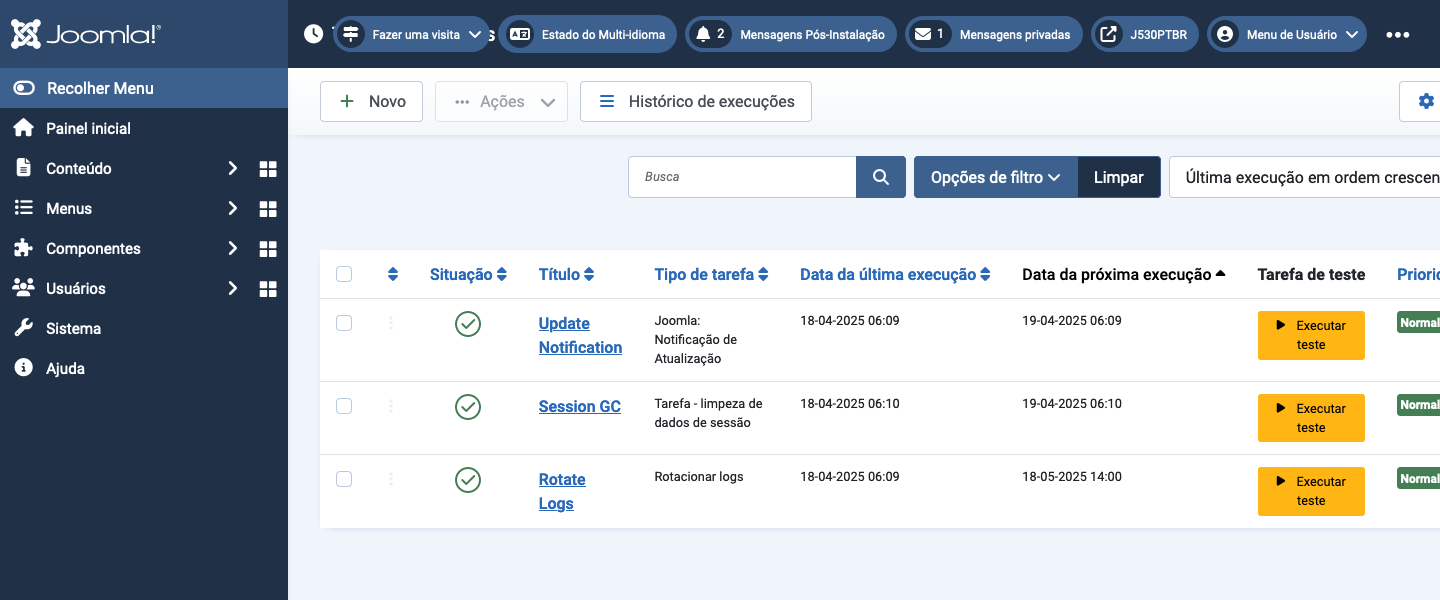
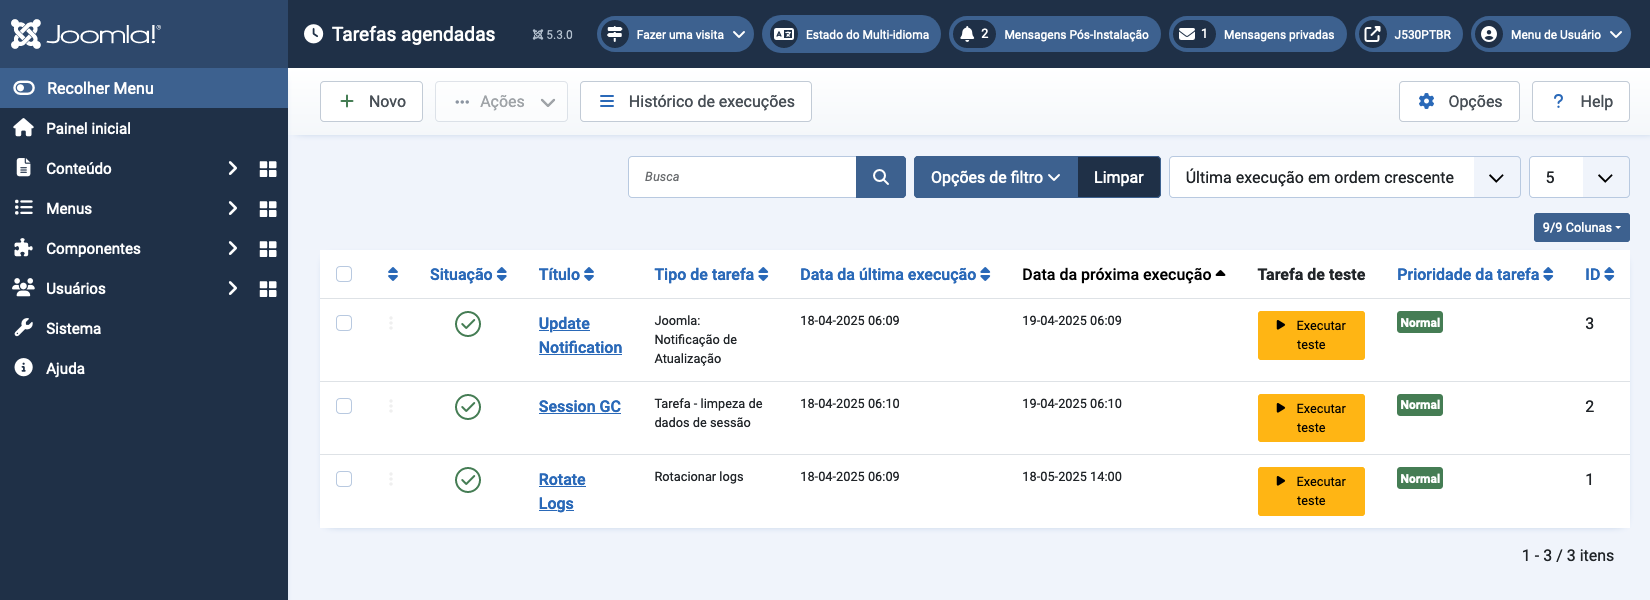
Updated scheduled tasks

diff --git a/articles/maintenance/scheduled-tasks-edit-task.md b/articles/maintenance/scheduled-tasks-edit-task.md
@@ -1,0 +1,102 @@
+<!-- Filename: Help5.x:Scheduled_Tasks:_Edit / Display title: Editar Tarefa -->
+
+## Descrição
+
+Cada tarefa possui seus próprios parâmetros relacionados à tarefa localizados na aba *Nova ou Editar Tarefa* do formulário Editar Tarefa. Os campos devem ser autoexplicativos. As abas adicionais do formulário são comuns a todas as tarefas.
+
+### Elementos Comuns
+
+Alguns aspectos desta página são abordados em artigos de ajuda separados:
+
+* [Barras de Ferramentas](jdocmanual?article=help/common-elements/toolbars).
+* [A Aba de Permissões](jdocmanual?article=help/common-elements/edit-permissions).
+
+## Como Acessar
+
+- Selecione **Sistema → Gerenciar → Tarefas Agendadas** e selecione o botão *+ Novo* na Barra de Ferramentas. Ou...
+- Selecione **Sistema → Gerenciar → Tarefas Agendadas** e selecione uma Tarefa da lista.
+
+## Notificação de Atualização do Joomla!
+
+Essa tarefa verifica periodicamente a disponibilidade de novas versões do Joomla!. Quando uma é encontrada, ela enviará um e-mail para você, lembrando de atualizar. Você pode personalizar o e-mail em Sistema → Modelos de E-mail.
+
+![joomla update notification parameters](../../../ptbr/images/maintenance/scheduled-tasks-types-joomla-update-notofication.png)
+
+### Guia Avançado
+
+![joomla update notification advanced tab parameters](../../../ptbr/images/maintenance/scheduled-tasks-types-advanced-tab.png)
+
+### Guia Histórico de Execução
+
+![joomla update notification execution history tab parameters](../../../ptbr/images/maintenance/scheduled-tasks-types-exec-history-tab.png)
+
+### Aba de Detalhes
+
+![joomla update notification details tab parameters](../../../ptbr/images/maintenance/scheduled-tasks-types-details-tab.png)
+
+## Excluir Logs de Ação
+
+Excluir logs de ações após os dias especificados.
+
+![joomla update notification parameters](../../../ptbr/images/maintenance/scheduled-tasks-types-delete-action-logs.png)
+
+## Expiração dos Consentes de Privacidade
+
+Gerencie a expiração dos consentimentos de privacidade.
+
+![joomla update notification parameters](../../../ptbr/images/maintenance/scheduled-tasks-types-privacy-consent.png)
+
+## Requisição GET
+
+Faça solicitações GET a um servidor. Suporta um tempo limite personalizado e cabeçalhos de autorização.
+
+![joomla update notification parameters](../../../ptbr/images/maintenance/scheduled-tasks-types-get-request.png)
+
+## Check-in Global
+
+Verificar itens retirados.
+
+![joomla update notification parameters](../../../ptbr/images/maintenance/scheduled-tasks-types-global-check-in.png)
+
+## Verificação do Tamanho da Imagem
+
+Verifique as imagens, redimensione se maior do que o permitido. Atenção: O arquivo original será sobrescrito!
+
+![joomla update notification parameters](../../../ptbr/images/maintenance/scheduled-tasks-types-image-size-check.png)
+
+- **Diretório** O Diretório da imagem para verificar, talvez sampledata, banners ou headers.
+
+- ** Dimensão** A dimensão da imagem para verificar, Largura e Altura.
+
+## Rotacionar Logs
+
+Gira periodicamente os arquivos de log.
+
+![joomla update notification parameters](../../../ptbr/images/maintenance/scheduled-tasks-types-rotate-logs.png)
+
+## Expurgo de Dados da Sessão
+
+Plugin de Tarefas que remove dados e metadados expirados, dependendo do manipulador de sessão configurado na Configuração Global.
+
+![joomla update notification parameters](../../../ptbr/images/maintenance/scheduled-tasks-types-session-data-purge.png)
+
+## Colocar Site Offline
+
+Define o status do site como offline em cada execução.
+
+![joomla update notification parameters](../../../ptbr/images/maintenance/scheduled-tasks-types-set-site-offline.png)
+
+## Colocar Site Online
+
+Define o status do site como online em cada execução.
+
+![joomla update notification parameters](../../../ptbr/images/maintenance/scheduled-tasks-types-set-site-online.png)
+
+## Alternar Offline
+
+Alterna o status do site a cada execução.
+
+![joomla update notification parameters](../../../ptbr/images/maintenance/scheduled-tasks-types-toggle-offline.png)
+
+*Traduzido por openai.com*
+

diff --git a/articles/maintenance/scheduled-tasks.md b/articles/maintenance/scheduled-tasks.md
@@ -1,4 +1,4 @@
-<!-- Filename: Help5.x:Scheduled_Tasks / Display title: Tarefas Agendadas -->
+<!-- Filename: Help5.x:Scheduled_Tasks / Display title: Tarefas agendadas -->
 
 ## Descrição
 
@@ -49,29 +49,4 @@ A captura de tela a seguir mostra uma lista de tarefas disponíveis. Algumas sã
 
 Cada tarefa tem seus próprios parâmetros relacionados à tarefa que devem ser autoexplicativos. Por exemplo, a tarefa **Site Offline** só faz sentido se a **Editar Tarefa → Campos Básicos → Regra de Execução** estiver definida como **Execução Manual**.
 
-## Opções de Tarefas Programadas
-
-Selecione o botão Opções na Barra de Ferramentas para configurar tarefas agendadas.
-
-### Configurar aba Tarefas
-
-![task timeout setting](../../../ptbr/images/maintenance/scheduled-tasks-options-configure-tasks.png)
-
-- **Tempo Limite da Tarefa** O padrão é 300 segundos.
-
-### Aba do Agendador Preguiçoso
-
-![lazy schedule setting](../../../ptbr/images/maintenance/scheduled-tasks-options-lazy-scheduler.png)
-
-- Tarefas **habilitadas** são acionadas pelos visitantes do site.
-- Tarefas **desabilitadas** devem ser acionadas por um cron job externo.
-- **Intervalo de solicitação** O padrão é 300 segundos.
-
-### Aba Web Cron
-
-![web cron setting](../../../ptbr/images/maintenance/scheduled-tasks-options-lazy-scheduler.png)
-
-- **Web Cron** Desativado é o padrão. Ativado requer um hash para acionar a tarefa. Antes do primeiro salvamento, há uma mensagem informando que uma chave é necessária. Após o salvamento, há um campo contendo uma URL de link do Webcron para copiar.
-
 *Traduzido por openai.com*
-

diff --git a/articles/maintenance/scheduled-tasks-configuration.md b/articles/maintenance/scheduled-tasks-configuration.md
@@ -1,0 +1,27 @@
+<!-- Filename: Help5.x:Scheduled_Tasks:_Options / Display title: Configuração de tarefas agendadas -->
+
+## Descrição
+
+Selecione o botão Opções na Barra de Ferramentas para configurar tarefas agendadas.
+
+### Configurar aba Tarefas
+
+![task timeout setting](../../../ptbr/images/maintenance/scheduled-tasks-options-configure-tasks.png)
+
+- **Tempo Limite da Tarefa** O padrão é 300 segundos.
+
+### Aba do Agendador Preguiçoso
+
+![lazy schedule setting](../../../ptbr/images/maintenance/scheduled-tasks-options-lazy-scheduler.png)
+
+- Tarefas **habilitadas** são acionadas pelos visitantes do site.
+- Tarefas **desabilitadas** devem ser acionadas por um cron job externo.
+- **Intervalo de solicitação** O padrão é 300 segundos.
+
+### Aba Web Cron
+
+![web cron setting](../../../ptbr/images/maintenance/scheduled-tasks-options-webcron.png)
+
+- **Web Cron** Desativado é o padrão. Ativado requer um hash para acionar a tarefa. Antes do primeiro salvamento, há uma mensagem informando que uma chave é necessária. Após o salvamento, há um campo contendo uma URL de link do Webcron para copiar.
+
+*Traduzido por openai.com*
